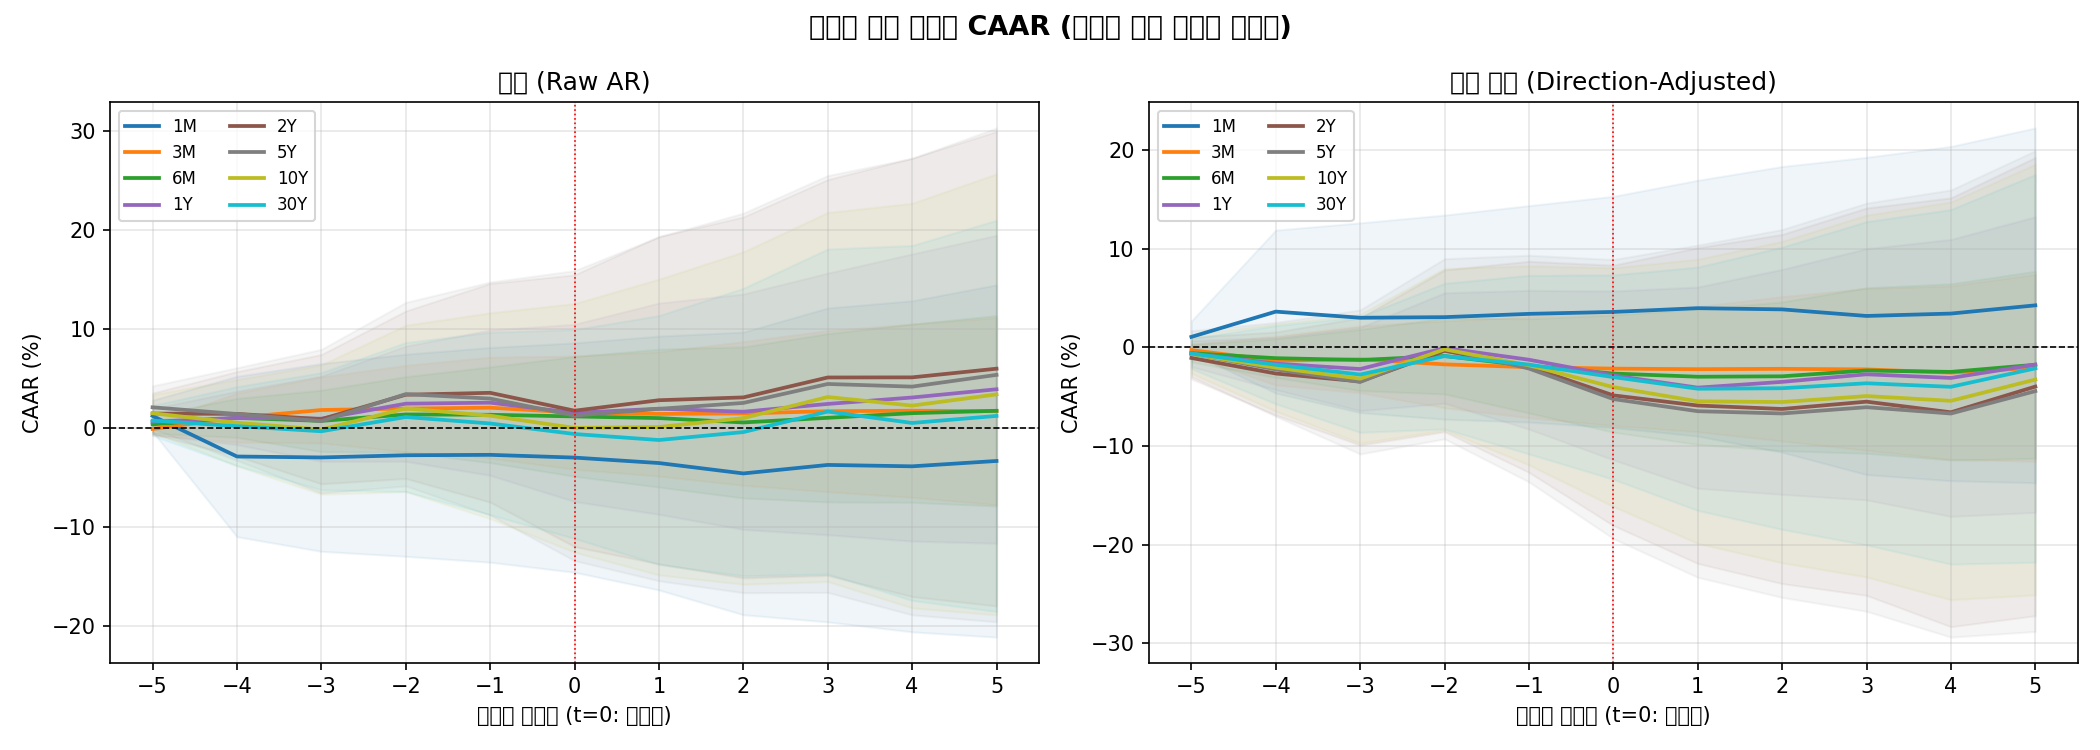
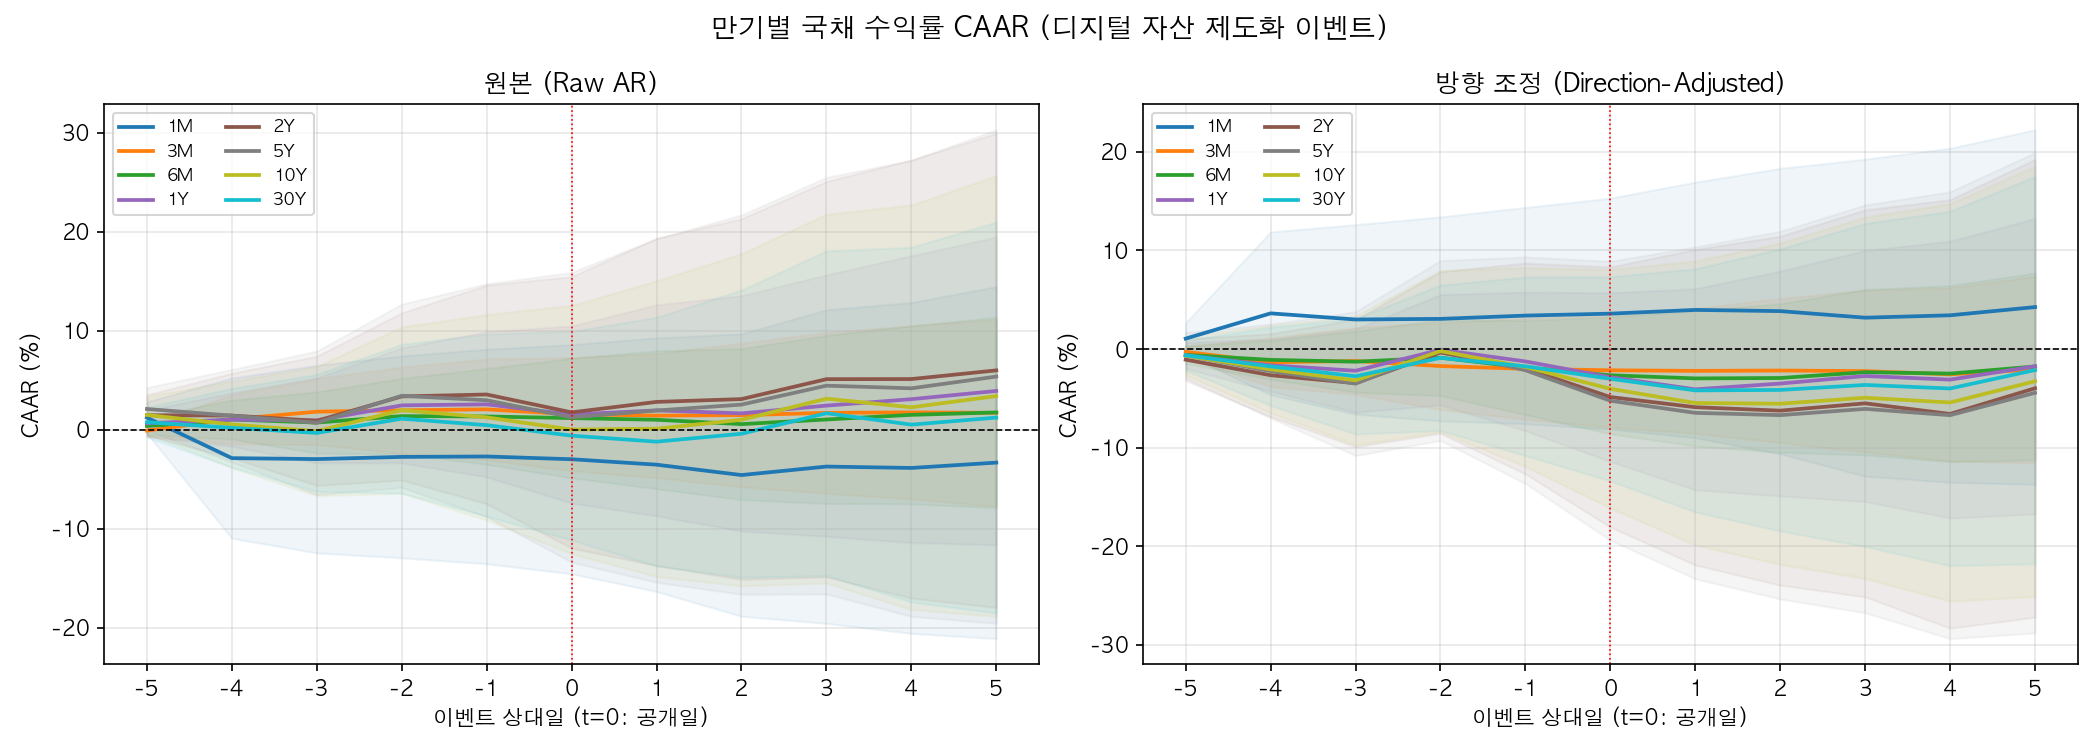
Fix Korean font rendering and data path in bond_event_study.py
- 한글 폰트 자동 감지 설정 추가 (AppleGothic 등 macOS 기본 폰트)
- 마이너스 기호 깨짐 방지 (axes.unicode_minus = False)
- DATA_DIR 경로 수정 (bond_backtest/ → sunkyu/data/)
- output 차트 5종 한글 정상화 버전으로 업데이트

diff --git a/sunkyu/bond_backtest/bond_event_study.py b/sunkyu/bond_backtest/bond_event_study.py
@@ -19,15 +19,33 @@ import pandas as pd
 import numpy as np
 import matplotlib.pyplot as plt
 import matplotlib.ticker as mticker
+import matplotlib.font_manager as fm
 from scipy import stats
 
 warnings.filterwarnings("ignore")
+
+# ── 한글 폰트 설정 (macOS)
+def _set_korean_font():
+    candidates = [
+        "AppleGothic",
+        "Apple SD Gothic Neo",
+        "NanumGothic",
+        "Malgun Gothic",
+    ]
+    available = {f.name for f in fm.fontManager.ttflist}
+    for name in candidates:
+        if name in available:
+            plt.rcParams["font.family"] = name
+            break
+    plt.rcParams["axes.unicode_minus"] = False  # 마이너스 기호 깨짐 방지
+
+_set_korean_font()
 
 # ──────────────────────────────────────────────────────────────
 # 0. 경로 설정
 # ──────────────────────────────────────────────────────────────
 BASE_DIR  = os.path.dirname(os.path.abspath(__file__))
-DATA_DIR  = os.path.join(BASE_DIR, "data")
+DATA_DIR  = os.path.join(BASE_DIR, "..", "data")
 OUT_DIR   = os.path.join(BASE_DIR, "output")
 os.makedirs(OUT_DIR, exist_ok=True)
 
